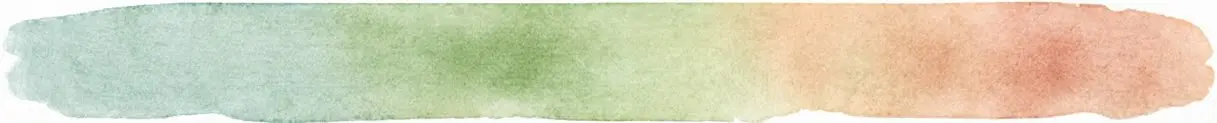
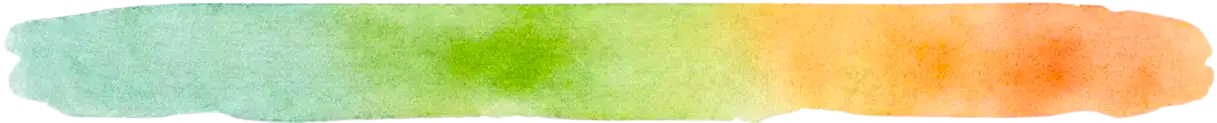
try adopt menu bar item background

diff --git a/css/themes/tongxing.css b/css/themes/tongxing.css
@@ -31,10 +31,54 @@
             background-repeat: no-repeat;
         }
 
+        /* Header Menu Items Watercolor Effect - Shared Background */
+        & .hidden.lg\:flex ul {
+            position: relative;
+            padding: 0.25rem 1.5rem;
+            margin-right: -1rem;
+
+            &::before {
+                content: '';
+                position: absolute;
+                inset: 0 -1rem;
+                background-image: url('/img/themes/tongxing/background/horizontal-menu-bg.webp');
+                background-size: 100% 100%;
+                background-repeat: no-repeat;
+                background-position: center;
+                z-index: -1;
+                mix-blend-mode: multiply;
+                opacity: 1;
+                pointer-events: none;
+
+                mask-mode: luminance;
+                mask-image: url('/img/themes/tongxing/background/horizontal-menu-bg.webp');
+                mask-size: 100% 100%;
+            }
+        }
+
+        & .nav__item>a,
+        & .nav__item button {
+            position: relative;
+            z-index: 1;
+            transition: transform 0.2s ease;
+
+            &:hover {
+                transform: translateY(-1px);
+                color: var(--brand-accent);
+            }
+        }
+
         /* Dark Mode specific variants */
         &.dark .bg-page-texture,
         & .dark .bg-page-texture {
             background-image: linear-gradient(rgba(13, 13, 13, 0.85), rgba(13, 13, 13, 0.85)), url('/img/themes/tongxing/background/background.webp');
+        }
+
+        &.dark .hidden.lg\:flex ul::before,
+        & .dark .hidden.lg\:flex ul::before {
+            mix-blend-mode: screen;
+            filter: invert(1) brightness(1.5);
+            opacity: 0.4;
         }
     }
 }
